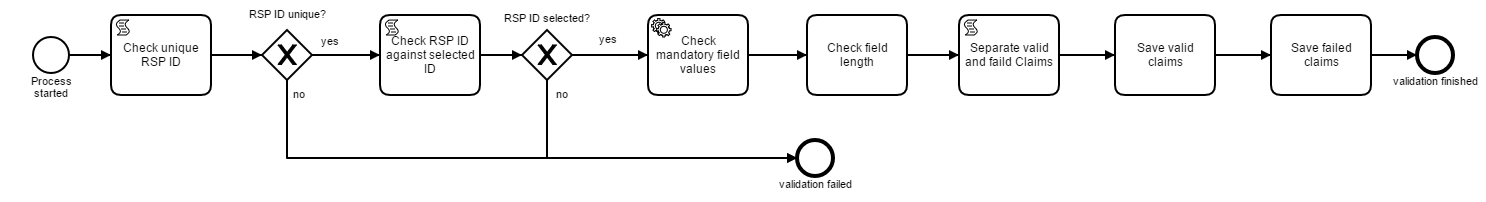
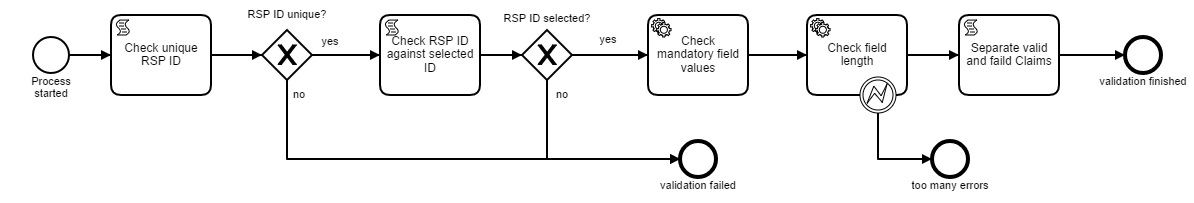
error handling with connectors

Changed region(s): [[0.0, 0.0297, 1.0, 0.5644], [0.1859, 0.6832, 0.6198, 0.9505], [0.7127, 0.6832, 0.8367, 0.9505]]

diff --git a/one-time-examples/validate-claims/node-scripts/routes/routes.js b/one-time-examples/validate-claims/node-scripts/routes/routes.js
@@ -5,7 +5,7 @@ var appRouter = function(app) {
 	});
 	
 	app.post("/check-mandatory-fields", function(req, res) {
-		console.log("account request with POST");
+		console.log("check-mandatory-fields request with POST");
 		console.log(req.body);
 		
 		var errorList = [];
@@ -24,36 +24,45 @@ var appRouter = function(app) {
 				if (claimsParsed.data[0].rows[i][mandatoryNumberFields[j]] &&
 						claimsParsed.data[0].rows[i][mandatoryNumberFields[j]].search(/[a-z]/i) > -1) {
 					errorList.push({fieldName: mandatoryNumberFields[j], 
-									rowNumber: i}
-							);
+									rowNumber: i});
 				}
 			}
-			
 		}
 		console.log(JSON.stringify(errorList));
 		return res.send(errorList);		
-//		if(!req.body.username || !req.body.password || !req.body.twitter) {
-//			return res.send({"status": "error", "message": "missing a parameter"});
-//		} else {
-//			return res.send(req.body);
-//		}
 	});	
 	
-	app.get("/account", function(req, res) {
-		var accountMock = {
-			"username": "nraboy",
-			"password": "1234",
-			"twitter": "@nraboy"
+	app.post("/check-field-length", function(req, res) {
+		console.log("request with POST");
+		console.log(req.body);
+
+		var errorList = [];
+		
+		var fieldLengths = {"materialNumber": {maxlength: 10}, "courierIn": {maxlength: 3}}; 
+
+		var claimsParsed = req.body;
+		console.log('after parse check field length');
+		var maxLength;
+
+		for (var fieldName in fieldLengths) {
+			console.log(fieldName);
+			for (i = 0; i < claimsParsed.data[0].rows.length; i++) {
+//				console.log (JSON.stringify(claimsParsed.data[0].rows[i][fieldName].length));
+				maxLength = fieldLengths[fieldName].maxlength;
+				if (claimsParsed.data[0].rows[i][fieldName] &&
+						claimsParsed.data[0].rows[i][fieldName].length > maxLength) {
+					errorList.push({fieldName: fieldName, 
+									rowNumber: i});
+				}
+			}
 		}
-		console.log("account request with GET");
-		if(!req.query.username) {
-			return res.send({"status": "error", "message": "missing username"});
-		} else if(req.query.username != accountMock.username) {
-			return res.send({"status": "error", "message": "wrong username"});
-		} else {
-			return res.send(accountMock);
+		console.log(JSON.stringify(errorList));
+		if (errorList.length > 4) {
+			return res.status(403).send({tooManyErrors: errorList});
+		} else {			
+			return res.send(errorList);		
 		}
-	});
+	});		
 	
 }
  

diff --git a/one-time-examples/validate-claims/src/main/resources/scripts/evaluate-response-for-error.js b/one-time-examples/validate-claims/src/main/resources/scripts/evaluate-response-for-error.js
@@ -1,0 +1,6 @@
+print("evaluate response for errors");
+if (statusCode == 403) {
+	throw new org.camunda.bpm.engine.delegate.BpmnError("tooManyErrors");
+}
+
+S(response);

diff --git a/one-time-examples/validate-claims/src/test/java/com/camunda/consulting/example/validate_claims/InMemoryH2Test.java b/one-time-examples/validate-claims/src/test/java/com/camunda/consulting/example/validate_claims/InMemoryH2Test.java
@@ -66,6 +66,7 @@ public class InMemoryH2Test {
     // Now: Drive the process by API and assert correct behavior by camunda-bpm-assert
     assertThat(processInstance).isActive();
     execute(job());
+    execute(job());
     
     assertThat(processInstance).isEnded().hasPassed("End_validation_finished");
     
@@ -143,6 +144,7 @@ public class InMemoryH2Test {
     // Now: Drive the process by API and assert correct behavior by camunda-bpm-assert
     assertThat(processInstance).isActive();
     execute(job());
+    execute(job());
 
     assertThat(processInstance).isEnded().hasPassed("End_validation_finished");
     
@@ -165,6 +167,7 @@ public class InMemoryH2Test {
     // Now: Drive the process by API and assert correct behavior by camunda-bpm-assert
     assertThat(processInstance).isActive();
     execute(job());
+    execute(job());
     
     assertThat(processInstance).isEnded().hasPassed("End_validation_finished");
     
@@ -172,6 +175,29 @@ public class InMemoryH2Test {
         .variableName("resultCheckMandatoryFields").singleResult();
     assertThat(result.getValue().equals("[{\"fieldName\":\"serialNumberIn\",\"rowNumber\":0},{\"fieldName\":\"customerComplaintCodePrimary\",\"rowNumber\":1}]"));
         
+    // To generate the coverage report for a single tests add this line as the last line of your test method:
+    //ProcessTestCoverage.calculate(processInstance, rule.getProcessEngine());
+  }
+  
+  @Test
+  @Deployment(resources = "process.bpmn")
+  public void testCheckFieldLengthError() throws IOException, URISyntaxException {
+    String claimsString = new String(
+        Files.readAllBytes(Paths.get(getClass().getResource(
+            "/claims/claims-check-field-length-error.json").toURI())));
+    JsonValue claims = SpinValues.jsonValue(claimsString).create();
+    
+    ProcessInstance processInstance = runtimeService()
+        .createProcessInstanceByKey(PROCESS_DEFINITION_KEY)
+        .startBeforeActivity("check_field_length")
+        .setVariables(withVariables("claims", claims))
+        .execute();
+    
+    assertThat(processInstance).isActive().isWaitingAt("check_field_length");
+    execute(job());
+    
+    assertThat(processInstance).isEnded().hasPassed("End_too_many_errors");
+
     // To generate the coverage report for a single tests add this line as the last line of your test method:
     //ProcessTestCoverage.calculate(processInstance, rule.getProcessEngine());
   }

diff --git a/one-time-examples/validate-claims/README.md b/one-time-examples/validate-claims/README.md
@@ -38,7 +38,7 @@ To check the result on a conditional sequence flow, you have to deserialize the 
 	
 Check [the docs](https://docs.camunda.org/manual/7.5/reference/spin/json/01-reading-json/#fetch-array-of-data) how to work on JSON arrays. 
 
-The complete script task may look like this:
+The complete sequence flow may look like this:
 
     <bpmn:sequenceFlow id="SequenceFlow_1" name="yes" sourceRef="ExclusiveGateway_1" targetRef="ScriptTask_1">
       <bpmn:conditionExpression xsi:type="bpmn:tFormalExpression" language="JavaScript">S(resultCheckUniqueRspID).elements().length == 0;</bpmn:conditionExpression>
@@ -82,7 +82,20 @@ This is an example for a service task with [a connector](https://docs.camunda.or
 As the prebuilt connector passes the payload as a String to the underlying http-framework, you have to convert the SPIN-Object to a String by calling `.toString()`.
 
 To save [the response of the service](https://docs.camunda.org/manual/7.5/reference/connect/http-connector/#using-the-generic-api-1), which arrives as a String, into a JSON-Object-Variable, you have to use the SPIN-Expression. See the output parameter in the code above.
- 
+
+###Error handling with connectors
+
+If you need to abort a service task with an attached error boundary event, you can throw a full qualified BpmnError from the script that evaluates the response. 
+
+As the `statusCode` is a [predefined variable](https://docs.camunda.org/manual/7.5/reference/connect/http-connector/#using-the-generic-api-1) from the connector, it is available in the script for further inspection:
+
+    if (statusCode == 403) {
+	    throw new org.camunda.bpm.engine.delegate.BpmnError("tooManyErrors");
+    }
+    S(response);
+
+Check the node script [route.js](node-scripts/routes/routes.js) how to respond with a different status. 
+
 ## How to use it?
 There is no web interface to access the application.
 To get started refer to the `InMemoryH2Test`.
@@ -126,7 +139,7 @@ Built and tested against Camunda BPM version 7.5.0.
 ## Known Limitations
 
 ## Improvements Backlog
-* error handling with connectors.
+* multi-instance
 
 ## License
 [Apache License, Version 2.0](http://www.apache.org/licenses/LICENSE-2.0).
